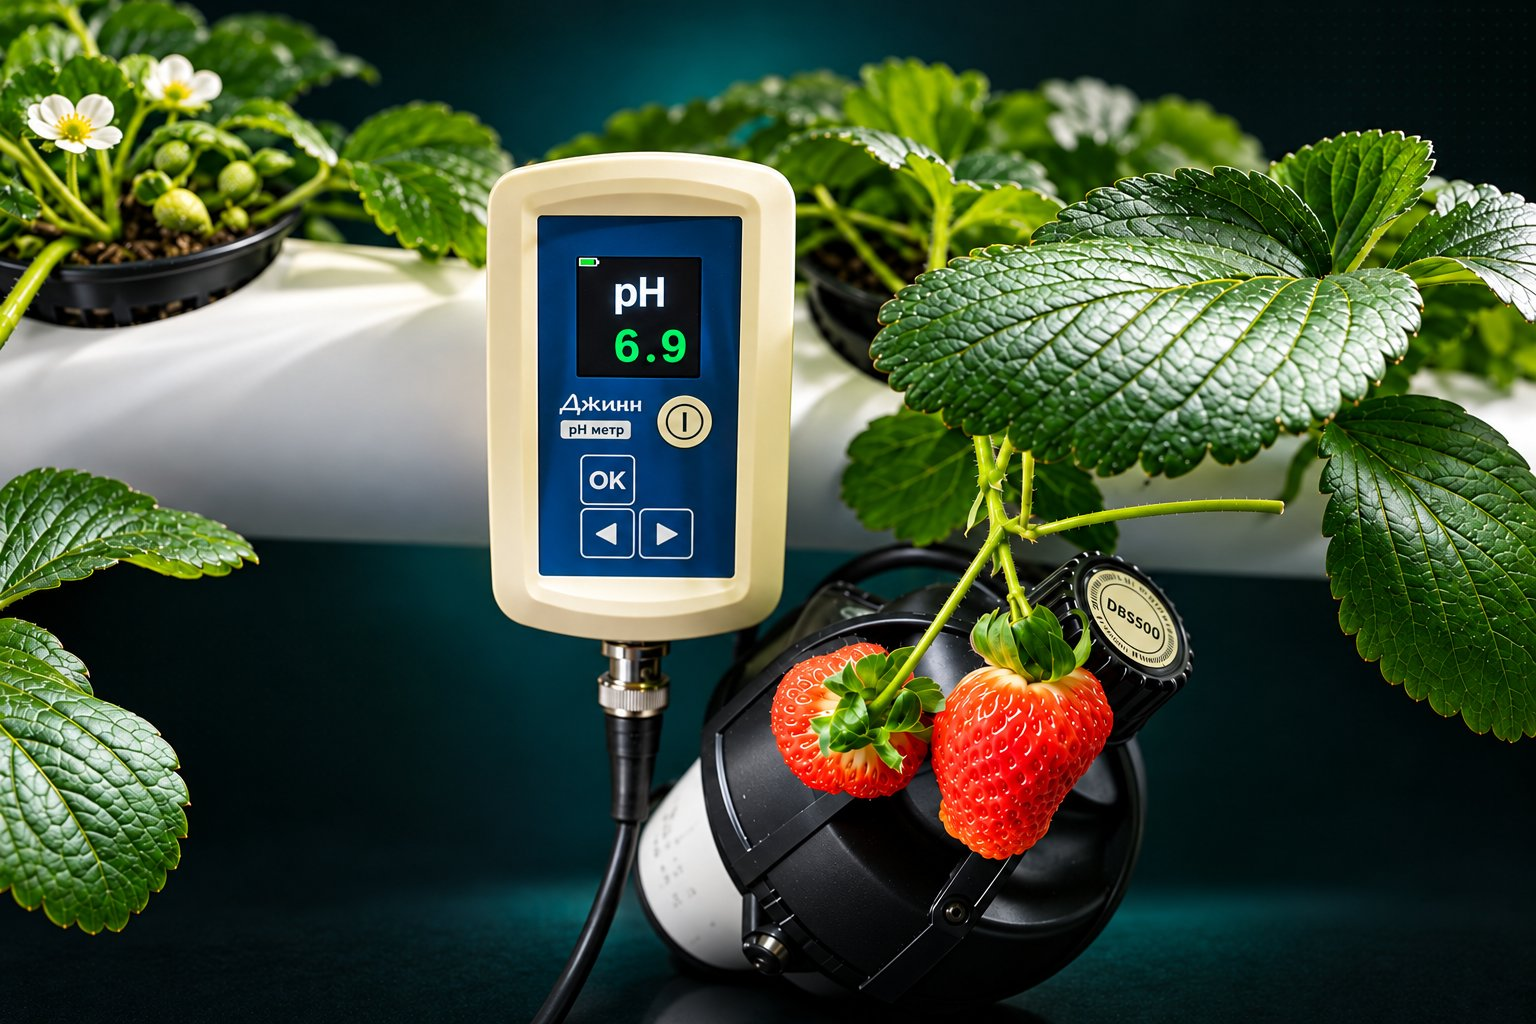
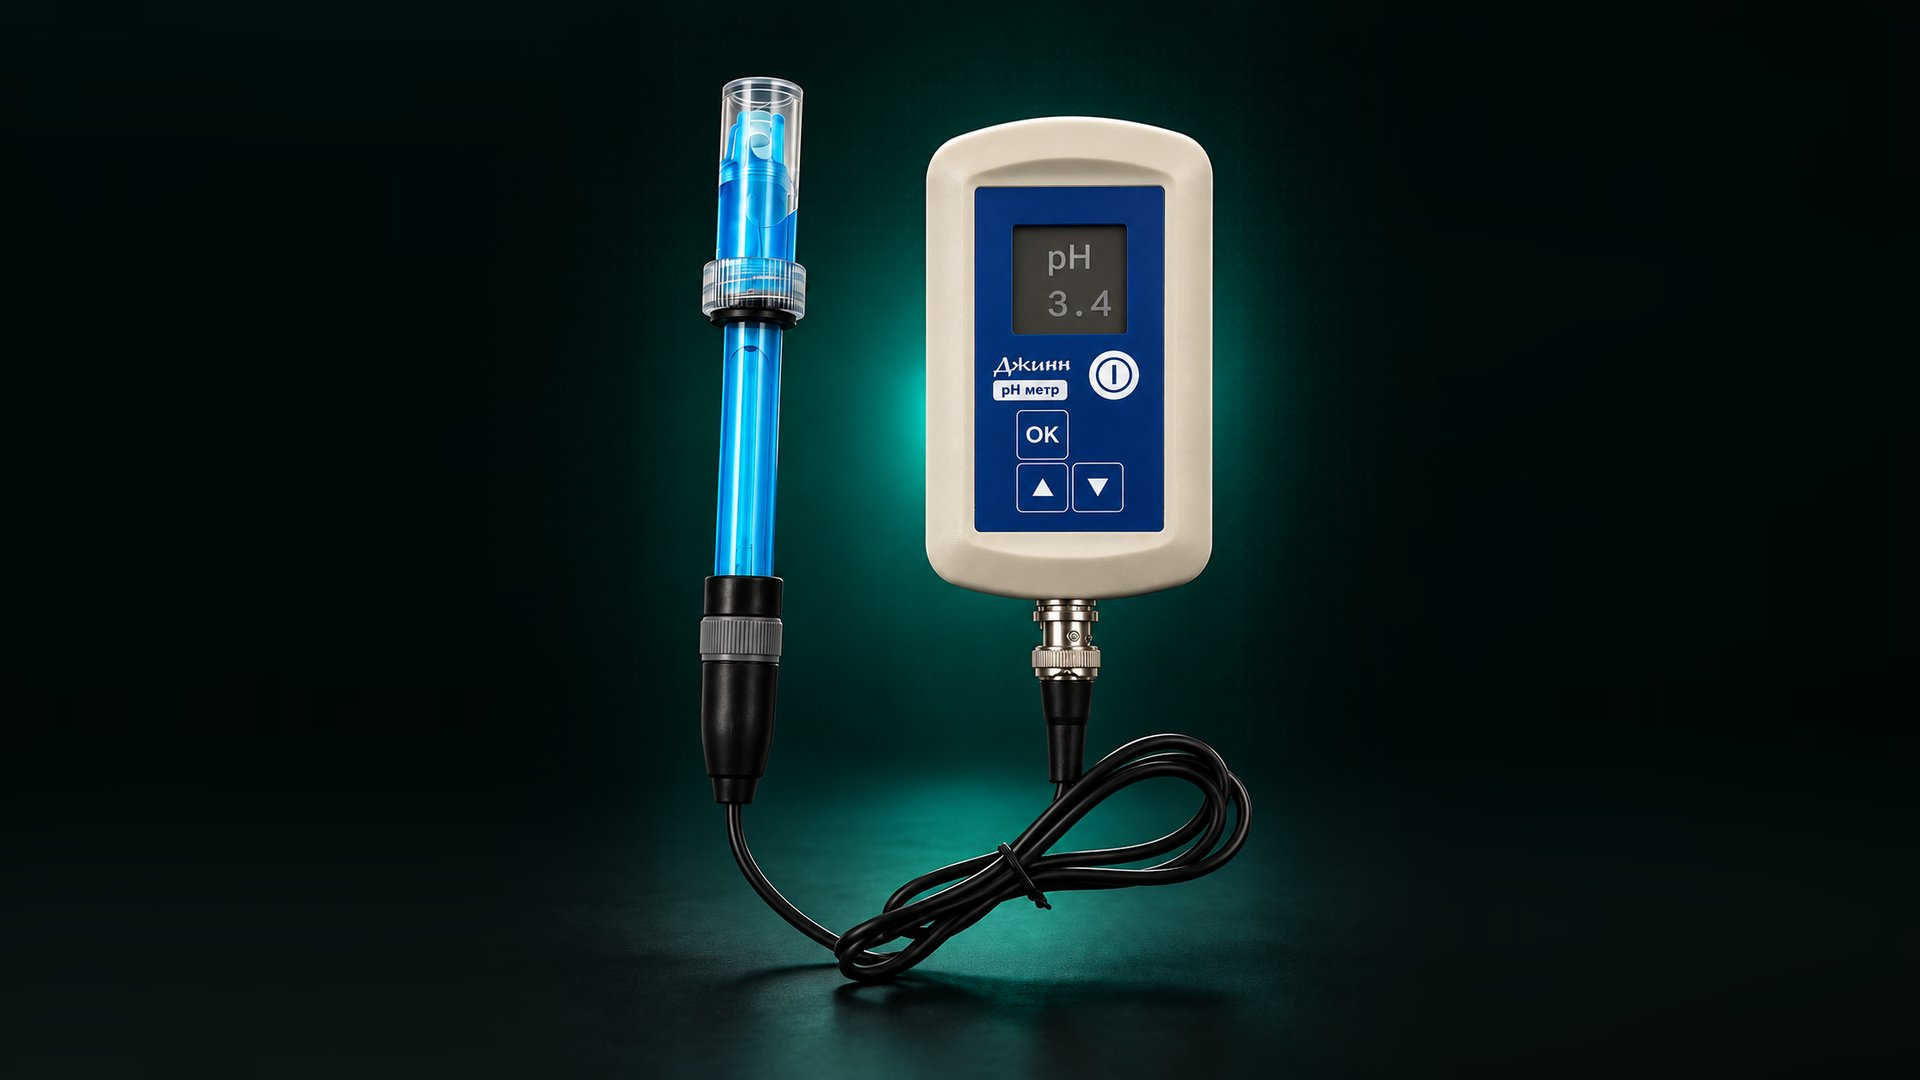
Титульный баннер 16:9: pH-метр крупным планом без растений, плашки скрыты на телефоне

diff --git a/index.html b/index.html
@@ -370,7 +370,7 @@ button { cursor: pointer; }
   box-shadow: 0 0 60px rgba(1,244,199,.35), 0 0 140px rgba(1,244,199,.15), 0 40px 80px rgba(0,0,0,.6);
 }
 .hero__frame img, .hero__frame .img-fallback {
-  width: 100%; aspect-ratio: 16 / 7; object-fit: cover; object-position: 45% 50%; border-radius: 16px; background: var(--surface);
+  width: 100%; aspect-ratio: 16 / 9; object-fit: cover; object-position: center; border-radius: 16px; background: var(--surface);
 }
 .glass-chip {
   position: absolute; display: flex; align-items: center; gap: 12px; padding: 12px 16px 12px 12px; text-align: left;
@@ -388,7 +388,6 @@ button { cursor: pointer; }
   .hero { padding-top: 44px; }
   .hero__stage { padding-top: 70px; margin-top: 24px; }
   .hero__beam { width: 300px; height: 160px; }
-  .hero__frame img, .hero__frame .img-fallback { aspect-ratio: 4 / 3; }
   .glass-chip { padding: 8px 12px 8px 8px; gap: 8px; }
   .glass-chip b { font-size: 15px; }
   .glass-chip span { font-size: 12px; }
@@ -762,8 +761,7 @@ a.contact-card__value:hover { color: var(--accent); }
 @media (max-width: 600px) {
   .pill { font-size: 12px; padding-right: 12px; gap: 8px; }
   .pill__mark, .section__eyebrow::before { width: 22px; height: 22px; border-radius: 7px; background-size: 13px, auto; }
-  .glass-chip--tl { display: none; }
-  .hero__frame img, .hero__frame .img-fallback { aspect-ratio: 5 / 4; }
+  .glass-chip { display: none; } /* на телефоне баннер 16:9 низкий — плашки закрывали бы прибор */
   .uses { margin-top: 44px; }
   .chip { min-height: 36px; padding: 8px 12px; }
   .footer__docs button { padding: 8px 0; }
@@ -904,7 +902,6 @@ dialog::backdrop { background: rgba(0,4,3,.72); backdrop-filter: blur(6px); }
    ========================================================= */
 .ico-tg { width: 20px; height: 20px; flex: 0 0 auto; }
 .hero__stage { max-width: 960px; }
-.hero__frame img, .hero__frame .img-fallback { aspect-ratio: 3 / 2; object-position: center; }
 .glass-chip--tl { left: -64px; top: 40%; }
 .glass-chip--br { right: -64px; bottom: 20%; }
 @media (max-width: 1120px) { .glass-chip { display: none; } }
@@ -1092,7 +1089,7 @@ dialog::backdrop { background: rgba(0,4,3,.72); backdrop-filter: blur(6px); }
       <div class="hero__stage reveal">
         <div class="hero__beam" aria-hidden="true"></div>
         <div class="hero__frame">
-          <img data-key="hero" alt="pH-метр «Джинн» на гидропонной установке с клубникой, на дисплее pH 5.9" fetchpriority="high">
+          <img data-key="hero" alt="pH-метр «Джинн» с электродом, на дисплее pH 3.4" fetchpriority="high">
           <div class="glass-chip glass-chip--tl">
             <span class="glass-chip__icon"><svg class="i"><use href="#i-gauge"/></svg></span>
             <div><b>pH 2.0–12.0</b><span>диапазон измерения</span></div>
